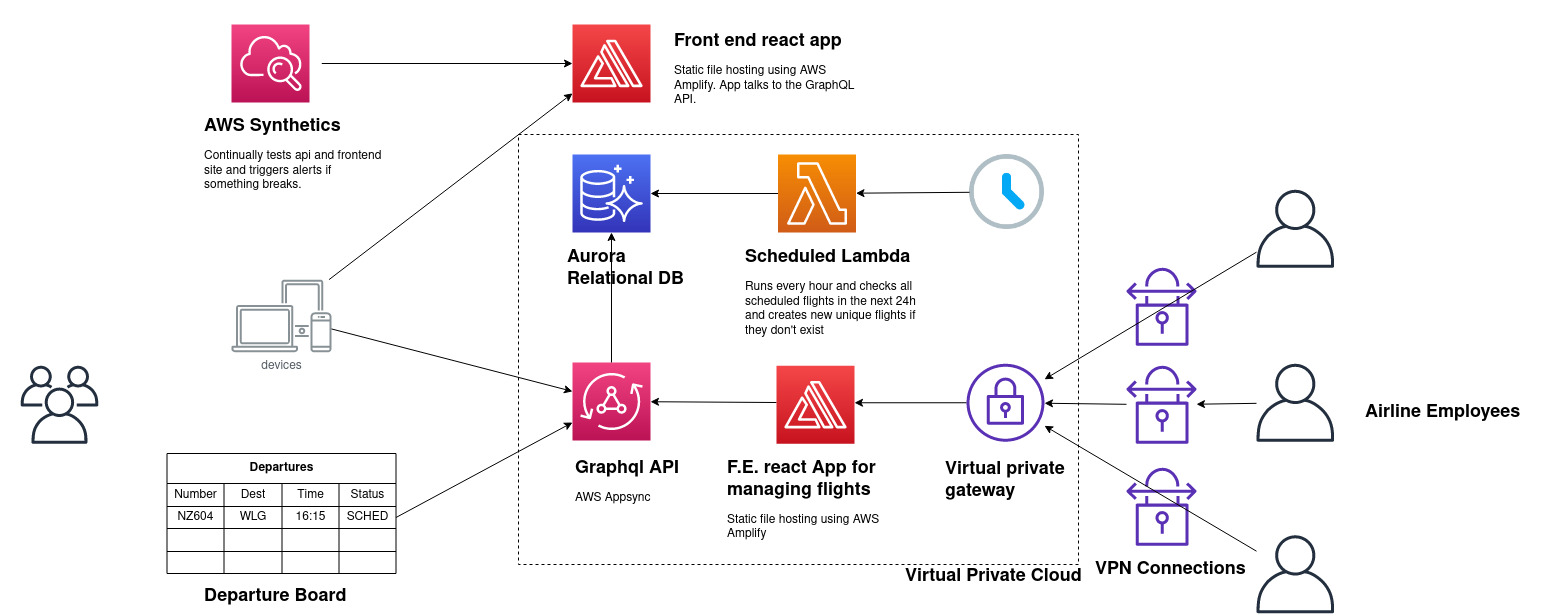
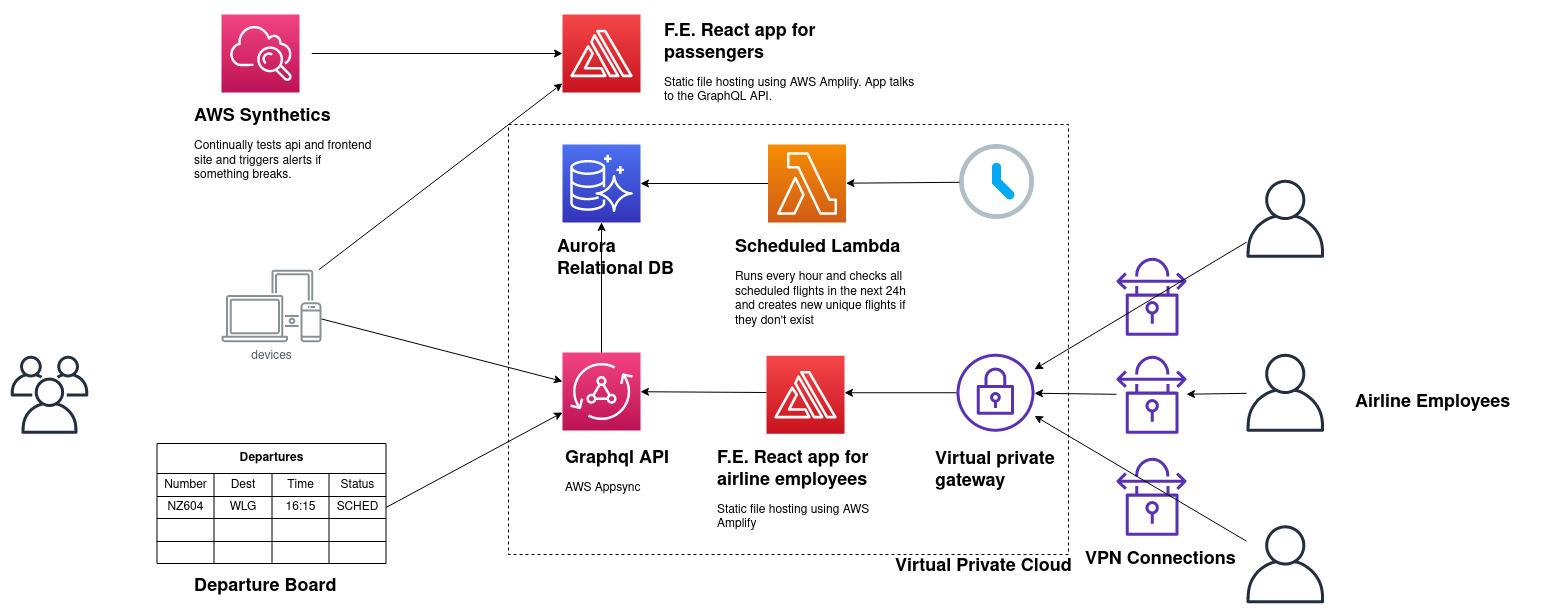
Ready to proof read.

diff --git a/README.md b/README.md
@@ -5,18 +5,20 @@
 - The front end for users to check departures is a statically hosted React app with graphQL.
 - There's a publicly available graphql api that can answer queries about departures.
 - Airline employees use a vpn to access a different statically hosted management page where they edit flight info. This is also a react app with graphql but it requires users to login so we can set a token with their user id.
-  - The graphql api validates the userid belongs to the right airline when editing a flight. 
+  - The graphql api validates the userid belongs to the right airline when editing a flight.
 
 ## Assumptions
 
-- We're ok with using AWS ([because Jeff Bezos hasn't ended world hunger yet](https://twitter.com/HasBezosDecided) and that we can live with some vendor lockin.
+- We're ok with using AWS 
+  - [because Jeff Bezos hasn't ended world hunger yet](https://twitter.com/HasBezosDecided)
+  - we can live with some vendor lockin.
 - It's ok to use graphql subscriptions to notify users rather than "true" push notifications.
-- [AWS site to site VPN](https://docs.aws.amazon.com/vpn/latest/s2svpn/VPC_VPN.html) counts as "not accessible to the internet." Otherwise there's an AWS direct connect service you can use. 
+- [AWS site to site VPN](https://docs.aws.amazon.com/vpn/latest/s2svpn/VPC_VPN.html) counts as "not accessible to the internet." Otherwise there's an AWS direct connect service you can use.
 - I don't have to build it all by myself and can have people on the team that know lots about devops / aws. (I'm not an expert)
 - Airlines schedule flights in a weekly fashion. The data model can't handle monthly schedules.
 - Times are in local time at the departure airport. Time zones are hard and I think this makes sense.
 - We don't need historical tables for auditing edits.
-- Users can only subscribe to notifications for flights within 24 hours. 
+- Users can only subscribe to notifications for flights within 24 hours.
 - Airlines can't re-shedule flights that depart in less than 24 hours.
 
 ## Data Model
@@ -26,9 +28,9 @@
 - Airline employees can:
   - Create / edit a `flight`, `flight_schedule`s and `status_update`s
   - A flight can have many schedules.
-- A scheduled task runs once / hour that checks all scheduled flights in the next 24 hours and creates entries in the `unique_flight` table.
-  - With this design airlines can't post status updates about a flight outside of 24h of departure.
-  - There's a `UNIQUE` constraint on the combination of (`flight_id`, `scheduled_departure_date_time`)
+- A scheduled task runs once / hour that checks all scheduled flights in the next 24 hours and creates entries in the `unique_flight` table. The times are arbitrary but I'm trying to make it a bit resilient so that if one of the scheduled tasks fails, you have 24 hours tofix it and re-run it.
+  - With this design airlines can't post status updates about a flight outside of 24h of departure because the scheduled task won't have created a unique flight yet.
+  - There's a `UNIQUE` constraint on the combination of (`flight_id`, `scheduled_date_time`).  
 - There's an `airline_employee` table which doesn't include all of the actual stuff you need for accounts (password hashes, profiles etc etc.)
 - The `airport` table is seeded with all the [iata](https://en.wikipedia.org/wiki/IATA_airport_code) codes for airports.
 
@@ -36,11 +38,28 @@
 
 ![system](XeroFlightBoardStack.jpg)
 
-## Estimate
+- The AWS Appsync would use lambda functions for the [resolvers](https://docs.aws.amazon.com/appsync/latest/devguide/tutorials.html). I'd want this so we can support the need to scale up very quickly under heavy load.
+- AWS Appsync also has a [cache](https://docs.aws.amazon.com/appsync/latest/devguide/enabling-caching.html) we could configure to further improve performance if we wanted to pay for it.
+- We'd need to restrict access to the parts of the api that manage flights. But that seems doable looking at the [docs](https://docs.aws.amazon.com/appsync/latest/devguide/security-authorization-use-cases.html)
+
+## Estimates
+
+Assuming a team of a few back-enders, a few front enders, someone who knows AWS + terraform. Plus associated designers.
+
+- Designing the graphql schema: 1 week. 
+- Setting up infrastructure: 2 weeks - 1 month.
+- Writing the resolvers: 1-2 weeks.
+- Writing the client facing frontend: 1 week
+- Writing the airline facing frontend: 1 - 3 months.
+- Writing terraforms: ??? 1 month?
+
+Something like this might get you to MVP and then you could keep iterating.
 
 ## Deployment
 
-AWS Amplify (static file hosting) is linked with a git repo so it automatically deploys when you merge to master. 
+AWS Amplify (static file hosting) links with a git repo so it automatically deploys when you merge to master. 
+
+I'd also want some kind of deployment pipeline for the lambda functions so that tests run and then we do the deploy. I'm out of time though to research how to do it.
 
 ## Development / Testing Environments
 
@@ -48,6 +67,10 @@ Ideally I'd want to use something like [terraform](https://www.terraform.io/) so
 
 ## Testing
 
-I'd configure CI and disable merges to master when tests fail.
+For the front end apps I'd configure CI and disable merges to master when tests fail.
+
+The graphql resolver lambda functions should be written to be testable too. I'd probably use an [onion architecture](https://medium.com/@shivendraodean/software-architecture-the-onion-architecture-1b235bec1dec) so that we could test the domain logic while mocking the infrastructure. This helps mitigate a little of the vendor lock-in risk. If we needed to move away from AWS and lambda functions the application layer and the infrastructure layers might change but the domain wouldn't.
 
 ## Monitoring
+
+I really enjoyed learning about monitoring and creating dashboards for my team at Funda. I saw it bring a lot to the team. We did it with datadog but it seems AWS has similar tools. Part of that would be having [AWS synthetic monitoring](https://docs.aws.amazon.com/AmazonCloudWatch/latest/monitoring/CloudWatch_Synthetics_Canaries.html) configured to use the frontend and trigger alerts when stuff breaks. 
